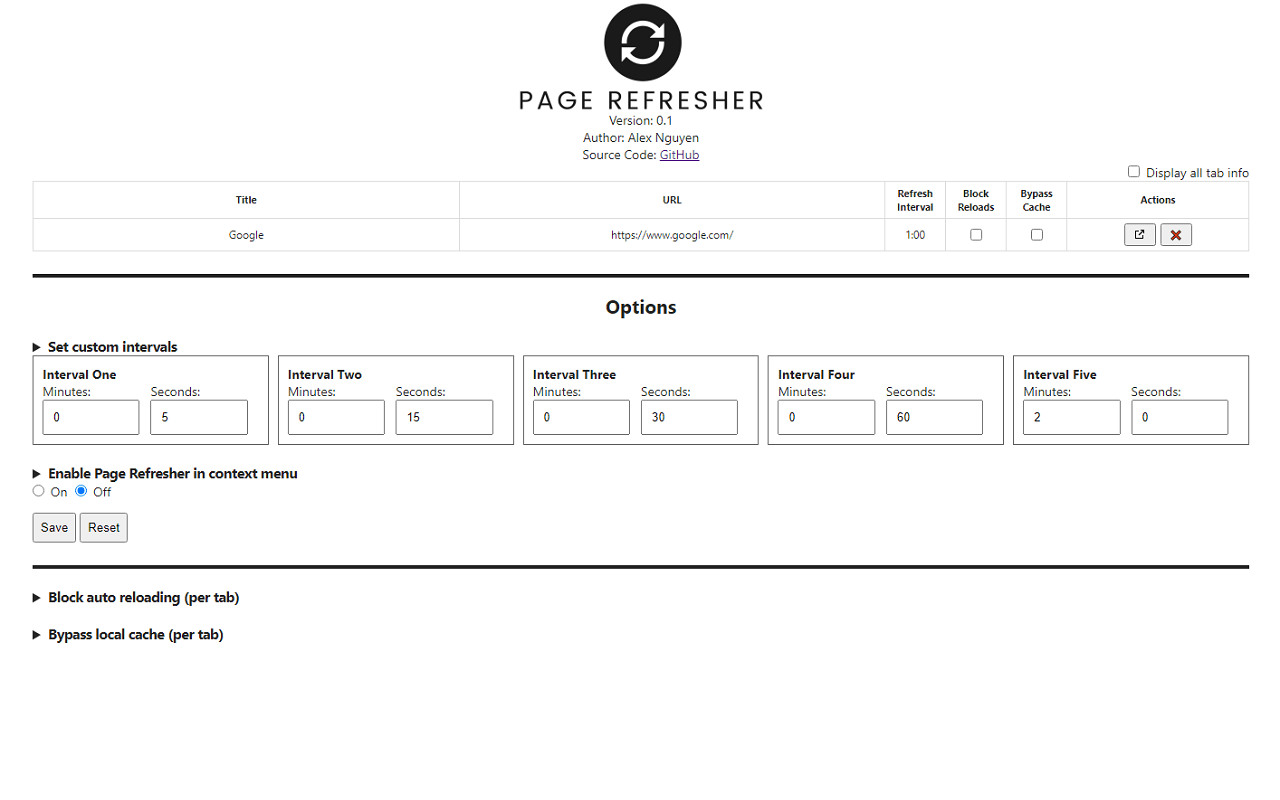
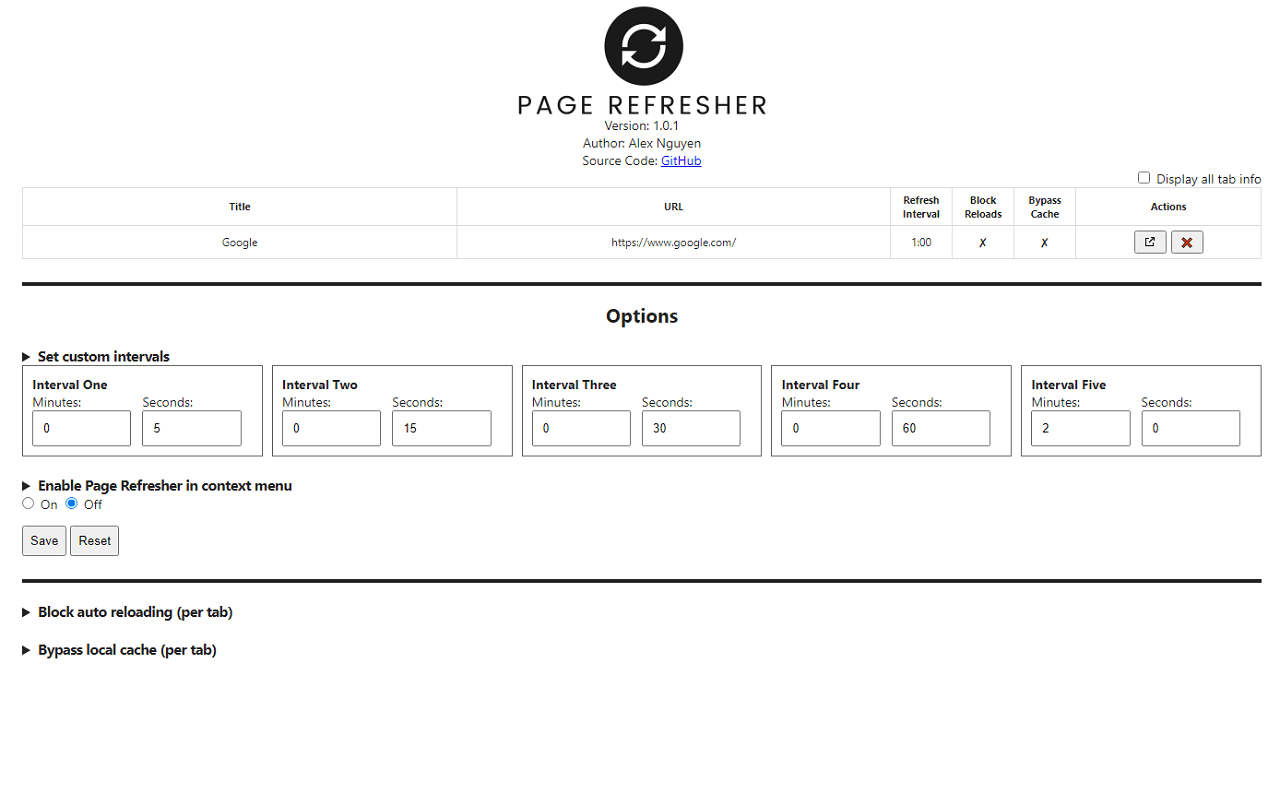
1.0.1
Removed option changes on options.html to adjust from <all_urls> to activeTab permission change. Fixed version text on options html.

diff --git a/public/src/js/options.js b/public/src/js/options.js
@@ -1,7 +1,7 @@
 // *************** // 
 // *** IMPORTS *** //
 // *************** //
-import { $, getTimeFormat, urlCheck } from "./global.js";
+import { $, getTimeFormat } from "./global.js";
 
 
 // ********************** // 
@@ -59,16 +59,12 @@ function loadRows() {
                         row.insertCell(-1).appendChild(document.createTextNode(formattedTitle));
                         row.insertCell(-1).appendChild(document.createTextNode(formattedURL));
                         row.insertCell(-1).appendChild(document.createTextNode(getTimeFormat(tabIDList[tabID]["reloadInfo"]["interval"])));
-                        row.insertCell(-1).innerHTML = '<input value="' + tabID + '" id="' + tabID + '-block" type="checkbox" name="block-reload-button">';
-                        row.insertCell(-1).innerHTML = '<input value="' + tabID + '" id="' + tabID + '-bypass" type="checkbox" name="bypass-cache-button">';
+
+                        (tabIDList[tabID]["blockReload"] ? row.insertCell(-1).innerHTML = '&#10004;' : row.insertCell(-1).innerHTML = '&#x2718;');
+                        (tabIDList[tabID]["bypassCache"] ? row.insertCell(-1).innerHTML = '&#10004;' : row.insertCell(-1).innerHTML = '&#x2718;');
+
                         row.insertCell(-1).innerHTML = '<button value="' + tabID + '" name="go-button" class="go-button" title="Go to tab"></button>' +
                         '<button value="' + tabID + '" name="quit-button" class="quit-button" title="Close reload">&#10060;</button>';
-
-                        // check checkboxes based on option states
-                        (tabIDList[tabID]["blockReload"] ? $(tabID + "-block").checked = true : $(tabID + "-block").checked = false);
-                        (tabIDList[tabID]["bypassCache"] ? $(tabID + "-bypass").checked = true : $(tabID + "-bypass").checked = false);
-
-                        urlCheck(tabIDList[tabID]["tabURL"], tabID + "-block");
 
                         createTabOptions();
                     }
@@ -95,9 +91,9 @@ function loadRows() {
                 } else {
                     row.insertCell(-1).appendChild(document.createTextNode("-"));
                 }
-    
-                row.insertCell(-1).innerHTML = '<input value="' + tabID + '" id="' + tabID + '-block" type="checkbox" name="block-reload-button">';
-                row.insertCell(-1).innerHTML = '<input value="' + tabID + '" id="' + tabID + '-bypass" type="checkbox" name="bypass-cache-button">';
+     
+                (tabIDList[tabID]["blockReload"] ? row.insertCell(-1).innerHTML = '&#10004;' : row.insertCell(-1).innerHTML = '&#x2718;');
+                (tabIDList[tabID]["bypassCache"] ? row.insertCell(-1).innerHTML = '&#10004;' : row.insertCell(-1).innerHTML = '&#x2718;');
     
                 if (tabIDList[tabID].hasOwnProperty("reloadInfo") === true) {
                     row.insertCell(-1).innerHTML = '<button value="' + tabID + '" name="go-button" class="go-button" title="Go to tab"></button>' +
@@ -105,12 +101,6 @@ function loadRows() {
                 } else {
                     row.insertCell(-1).innerHTML = '<button value="' + tabID + '" name="go-button" class="go-button" title="Go to tab"></button>';
                 }
-    
-                // check checkboxes based on option states
-                (tabIDList[tabID]["blockReload"] ? $(tabID + "-block").checked = true : $(tabID + "-block").checked = false);
-                (tabIDList[tabID]["bypassCache"] ? $(tabID + "-bypass").checked = true : $(tabID + "-bypass").checked = false);
-    
-                urlCheck(tabIDList[tabID]["tabURL"], tabID + "-block");
     
                 createTabOptions();
             }
@@ -132,26 +122,8 @@ function reloadsExist(tabIDList) {
 function createTabOptions() {
 
     // ELEMENT REFERENCES
-    const blockReloadButton = document.getElementsByName("block-reload-button");
-    const bypassCacheButton = document.getElementsByName("bypass-cache-button");
     const goButton = document.getElementsByName("go-button");
     const quitButton = document.getElementsByName("quit-button");
-
-    // for each 'blockReload' checkbox on click, toggle the blockReload state for the corresponding tab
-    blockReloadButton.forEach(item => {
-        item.addEventListener("click", event => {
-            const tabID = parseInt(event.target.value); // store tabID separately so we can remove the row before deleting the reload; convert to integer because .id stores it as string
-            chrome.runtime.sendMessage({greeting: "blockReloadFromOptions", tabID: tabID, state: event.target.checked});
-        });
-    });
-
-    // for each 'bypassCache' checkbox on click, toggle the bypassCache state for the corresponding tab
-    bypassCacheButton.forEach(item => {
-        item.addEventListener("click", event => {
-            const tabID = parseInt(event.target.value);
-            chrome.runtime.sendMessage({greeting: "bypassCacheFromOptions", tabID: tabID, state: event.target.checked});
-        });
-    });
 
     // for each 'Go' button on click, make the corresponding tab the active tab
     goButton.forEach(item => {

diff --git a/public/src/js/background.js b/public/src/js/background.js
@@ -125,12 +125,6 @@ chrome.runtime.onMessage.addListener(function(request, sender, sendResponse) {
         case "bypassCache":
             bypassCache(request.state);
             break;
-        case "blockReloadFromOptions":
-            blockReloadFromOptions(request.tabID, request.state);
-            break;
-        case "bypassCacheFromOptions":
-            bypassCacheFromOptions(request.tabID, request.state);
-            break;
         case "enableContext":
             addContextMenu();
             break;
@@ -265,20 +259,6 @@ function bypassCache(state) {
 
         chrome.runtime.sendMessage({greeting: "loadRows"});
     });
-}
-
-
-// *** Block meta refreshes and automatic reloads. *** //
-function blockReloadFromOptions(tabID, state) {
-
-    tabIDList[tabID]["blockReload"] = state;
-    (tabIDList[tabID]["blockReload"] ? chrome.tabs.executeScript(tabID, { code: "window.stop();" }) : chrome.tabs.reload(tabID));
-}
-
-
-// *** Bypass local cache. *** //
-function bypassCacheFromOptions(tabID, state) {
-    tabIDList[tabID]["bypassCache"] = state;
 }
 
 

diff --git a/public/options.html b/public/options.html
@@ -10,7 +10,7 @@
 
     <img src="./src/img/banner.png">
     <p id="extension-info">
-        Version: 0.1<br>
+        Version: 1.0.1<br>
         Author: Alex Nguyen<br>
         Source Code: <a href="https://github.com/alexnguyennz/pagerefresher" target="_blank">GitHub</a>
     </p>
